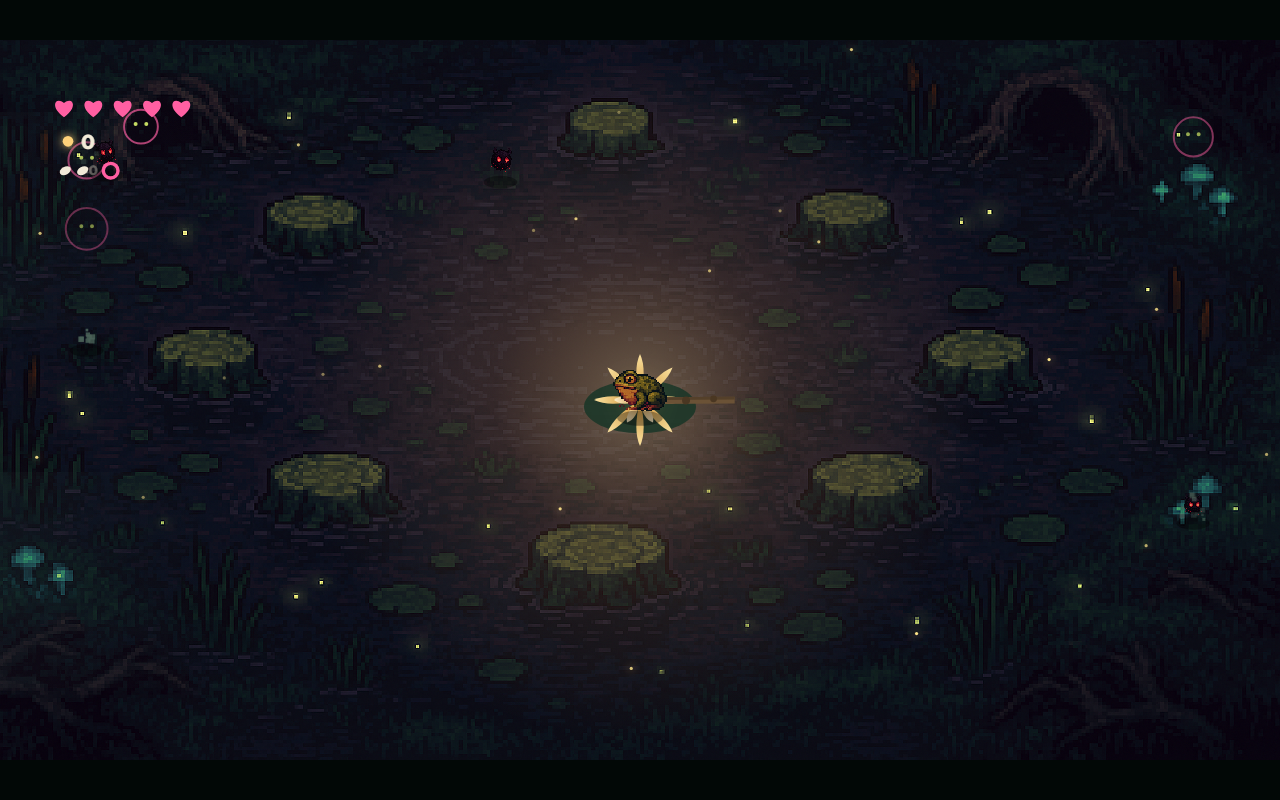
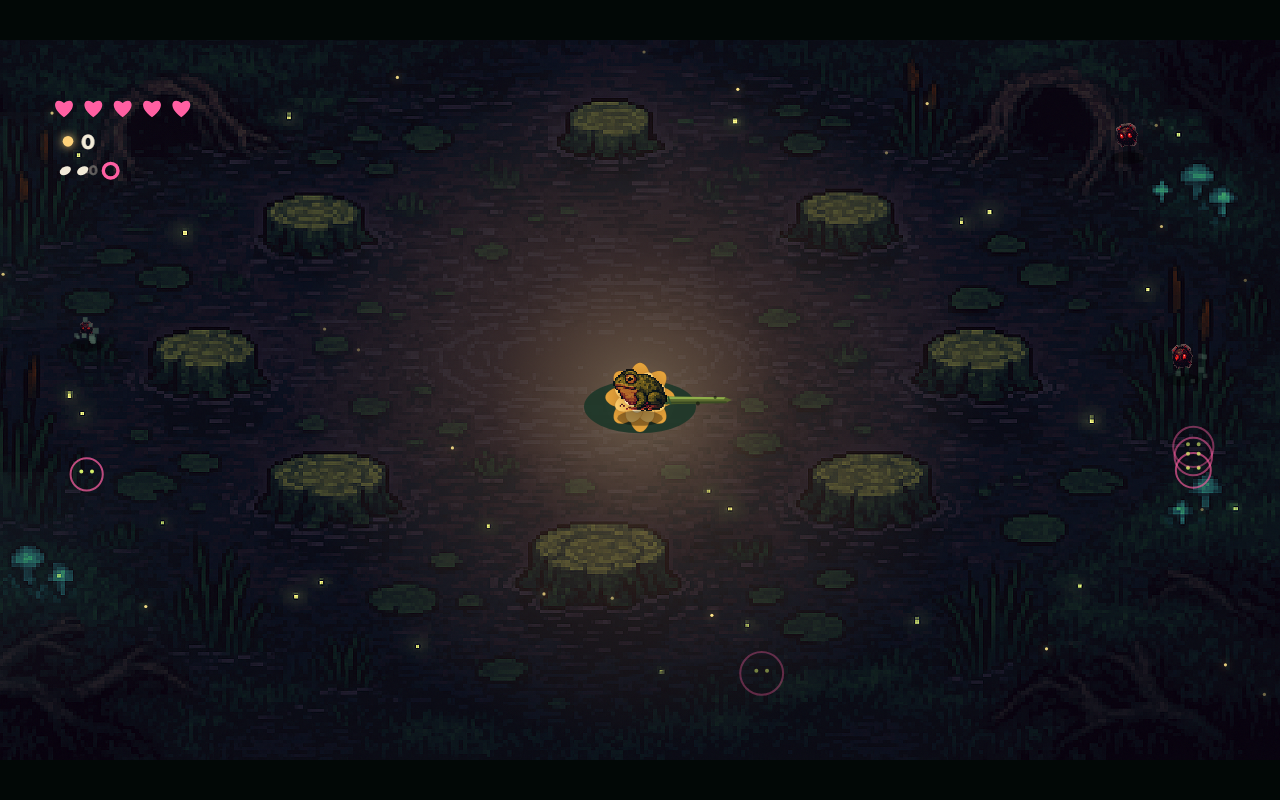
Loop: reed sword restyle (green reed blade, moss guard) + golden rounded lotus

diff --git a/src/render/render.ts b/src/render/render.ts
@@ -191,32 +191,30 @@ function drawLotus(ctx: CanvasRenderingContext2D, time: number) {
   // pad
   ctx.fillStyle = 'rgba(28,54,40,0.9)';
   ctx.beginPath(); ctx.ellipse(cx, cy + 10, 84, 40, 0, 0, Math.PI * 2); ctx.fill();
-  // petals (two rings), lit from within
-  ctx.translate(cx, cy);
-  for (let ring = 0; ring < 2; ring++) {
-    const n = ring === 0 ? 8 : 6;
-    const r = ring === 0 ? 46 : 26;
-    const rot = ring === 0 ? 0 : Math.PI / 6;
-    for (let i = 0; i < n; i++) {
-      const a = rot + (i / n) * Math.PI * 2;
-      ctx.save();
-      ctx.rotate(a);
-      const g = ctx.createLinearGradient(0, 0, 0, -r * 1.6);
-      g.addColorStop(0, '#c8892e');
-      g.addColorStop(1, ring === 0 ? '#ffe9a8' : '#fff6d8');
-      ctx.fillStyle = g;
-      ctx.beginPath();
-      ctx.moveTo(0, 0);
-      ctx.quadraticCurveTo(-11, -r, 0, -r * 1.5);
-      ctx.quadraticCurveTo(11, -r, 0, 0);
-      ctx.fill();
-      ctx.restore();
-    }
-  }
+  // petals (three rings, rounded + overlapping), lit warm gold from within
+  ctx.translate(cx, cy - 4);
+  const drawPetal = (len: number, wide: number, c0: string, c1: string) => {
+    const g = ctx.createLinearGradient(0, 0, 0, -len);
+    g.addColorStop(0, c0); g.addColorStop(1, c1);
+    ctx.fillStyle = g;
+    ctx.beginPath();
+    ctx.moveTo(0, 4);
+    ctx.bezierCurveTo(-wide, -len * 0.4, -wide * 0.5, -len, 0, -len);   // rounded tip
+    ctx.bezierCurveTo(wide * 0.5, -len, wide, -len * 0.4, 0, 4);
+    ctx.fill();
+    ctx.strokeStyle = 'rgba(120,70,20,0.25)'; ctx.lineWidth = 1; ctx.stroke();
+  };
+  // outer ring — deep amber
+  for (let i = 0; i < 8; i++) { ctx.save(); ctx.rotate((i / 8) * Math.PI * 2); drawPetal(52, 26, '#a9691f', '#e8a63c'); ctx.restore(); }
+  // mid ring — brighter gold, offset
+  for (let i = 0; i < 8; i++) { ctx.save(); ctx.rotate(((i + 0.5) / 8) * Math.PI * 2); drawPetal(40, 22, '#c8892e', '#ffcf6e'); ctx.restore(); }
+  // inner ring — pale warm, cupping the core
+  for (let i = 0; i < 6; i++) { ctx.save(); ctx.rotate((i / 6) * Math.PI * 2 + 0.3); drawPetal(24, 17, '#e0a83e', '#fff0c0'); ctx.restore(); }
   // hot core
-  ctx.fillStyle = 'rgba(255,247,220,' + (0.7 * pulse) + ')';
-  ctx.shadowColor = '#ffd27a'; ctx.shadowBlur = 30 * pulse;
-  ctx.beginPath(); ctx.arc(0, -6, 12, 0, Math.PI * 2); ctx.fill();
+  ctx.fillStyle = 'rgba(255,247,220,' + (0.85 * pulse) + ')';
+  ctx.shadowColor = '#ffd27a'; ctx.shadowBlur = 26 * pulse;
+  ctx.beginPath(); ctx.arc(0, -6, 13, 0, Math.PI * 2); ctx.fill();
+  ctx.shadowBlur = 0;
   ctx.restore();
 }
 
@@ -534,21 +532,45 @@ function drawSwordAt(ctx: CanvasRenderingContext2D, w: World, time: number) {
   }
 
   ctx.save();
-  ctx.rotate(0);
   ctx.translate(Math.cos(ang) * 16, Math.sin(ang) * 16 + raise);
   ctx.rotate(ang);
-  // blade — a soggy branch (tier 1 stick)
-  ctx.fillStyle = '#6b5236';
-  ctx.fillRect(8, -5, L, 10);
-  ctx.fillStyle = '#54402a';
-  ctx.fillRect(8, -5, L, 4);
-  // knots
+  // REED SWORD (design/4 Weapons): a blade of hardened swamp reeds, leather-wrapped grip,
+  // mossy-vine binding, chipped edge, glowing lime moss at the guard.
+  // blade body (tapered reed, olive-green)
+  ctx.fillStyle = '#5c6b2f';
+  ctx.beginPath();
+  ctx.moveTo(14, -6); ctx.lineTo(L - 6, -4); ctx.lineTo(L + 4, 0); ctx.lineTo(L - 6, 4); ctx.lineTo(14, 6);
+  ctx.closePath(); ctx.fill();
+  // lit reed edge (top highlight)
+  ctx.fillStyle = '#8fae4a';
+  ctx.beginPath();
+  ctx.moveTo(14, -6); ctx.lineTo(L - 6, -4); ctx.lineTo(L - 8, -1); ctx.lineTo(14, -2);
+  ctx.closePath(); ctx.fill();
+  // dark reed spine
+  ctx.fillStyle = '#3a4a22';
+  ctx.fillRect(14, 2, L - 18, 3);
+  // a couple of chips out of the edge
+  ctx.fillStyle = 'rgba(10,16,8,0.6)';
+  ctx.beginPath(); ctx.arc(L * 0.6, 5, 3, 0, Math.PI * 2); ctx.fill();
+  ctx.beginPath(); ctx.arc(L * 0.82, -4, 2.4, 0, Math.PI * 2); ctx.fill();
+  // vine binding wraps near the base of the blade
+  ctx.strokeStyle = '#2f5233'; ctx.lineWidth = 2.5;
+  for (let i = 0; i < 3; i++) { ctx.beginPath(); ctx.moveTo(16 + i * 5, -6); ctx.lineTo(20 + i * 5, 6); ctx.stroke(); }
+  // guard + glowing moss
+  ctx.fillStyle = '#5a4a2e';
+  ctx.fillRect(10, -8, 6, 16);
+  ctx.fillStyle = '#b6ff6a';
+  ctx.shadowColor = '#8fff5a'; ctx.shadowBlur = 6;
+  ctx.beginPath(); ctx.arc(13, -7, 2.2, 0, Math.PI * 2); ctx.arc(12, 7, 1.8, 0, Math.PI * 2); ctx.fill();
+  ctx.shadowBlur = 0;
+  // leather-wrapped grip
+  ctx.fillStyle = '#3a2c1c';
+  ctx.fillRect(-2, -5, 12, 10);
+  ctx.strokeStyle = '#241a10'; ctx.lineWidth = 1.5;
+  for (let i = 0; i < 3; i++) { ctx.beginPath(); ctx.moveTo(0 + i * 4, -5); ctx.lineTo(2 + i * 4, 5); ctx.stroke(); }
+  // pommel
   ctx.fillStyle = '#4a3722';
-  ctx.beginPath(); ctx.arc(L * 0.45, 0, 6, 0, Math.PI * 2); ctx.fill();
-  ctx.beginPath(); ctx.arc(L * 0.8, -2, 5, 0, Math.PI * 2); ctx.fill();
-  // grip
-  ctx.fillStyle = '#2c2c28';
-  ctx.fillRect(0, -6, 12, 12);
+  ctx.beginPath(); ctx.arc(-3, 0, 4, 0, Math.PI * 2); ctx.fill();
   ctx.restore();
 }
 
